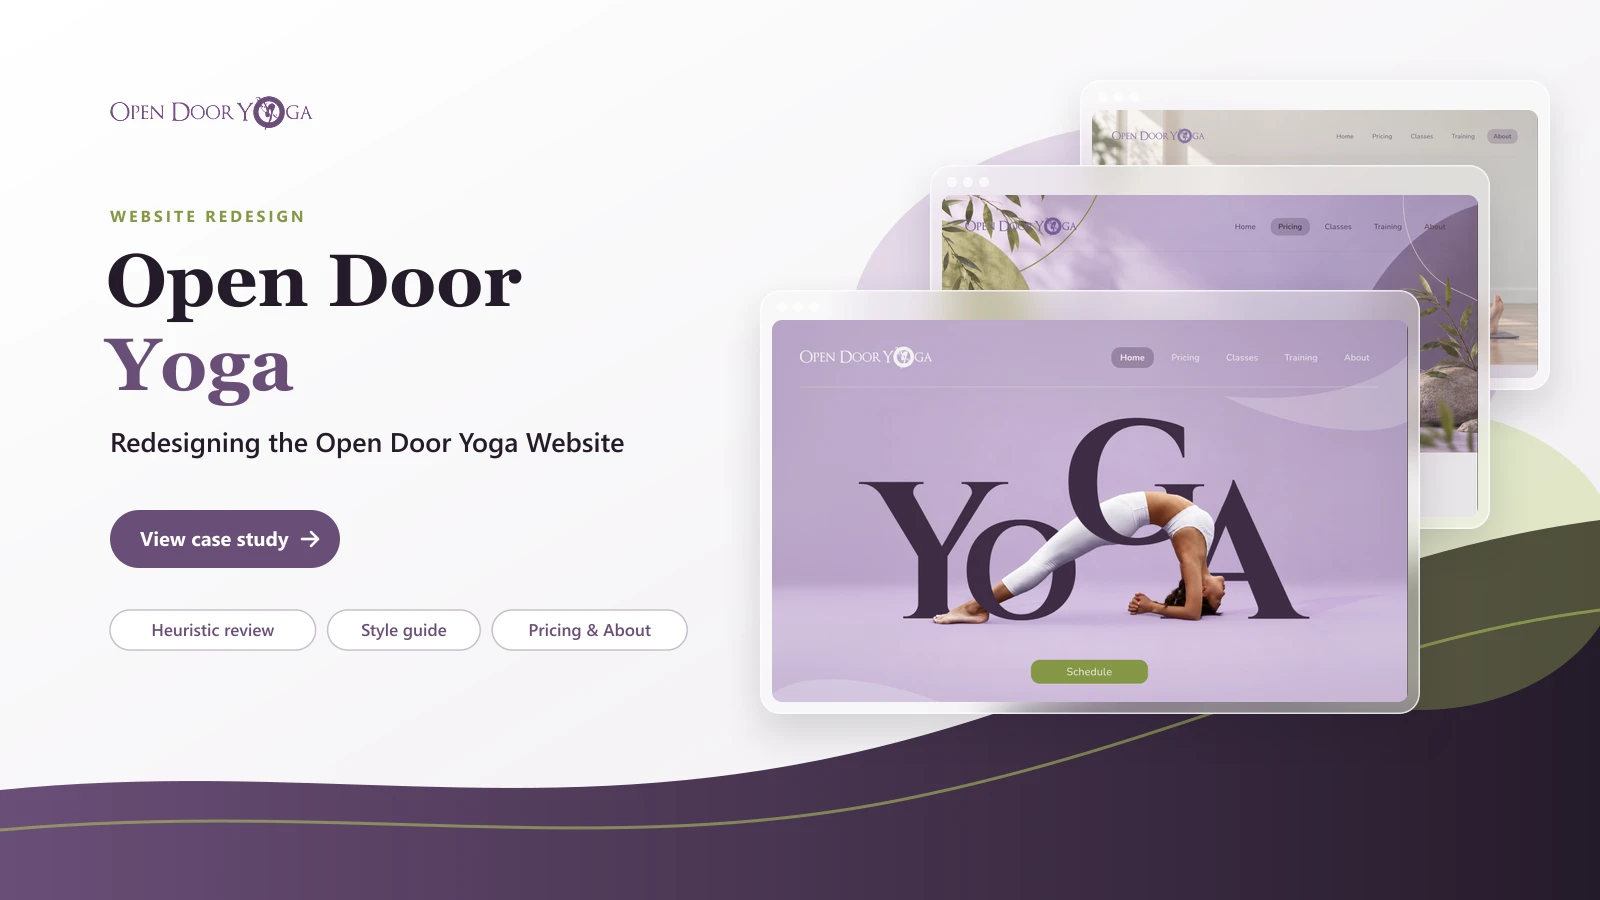
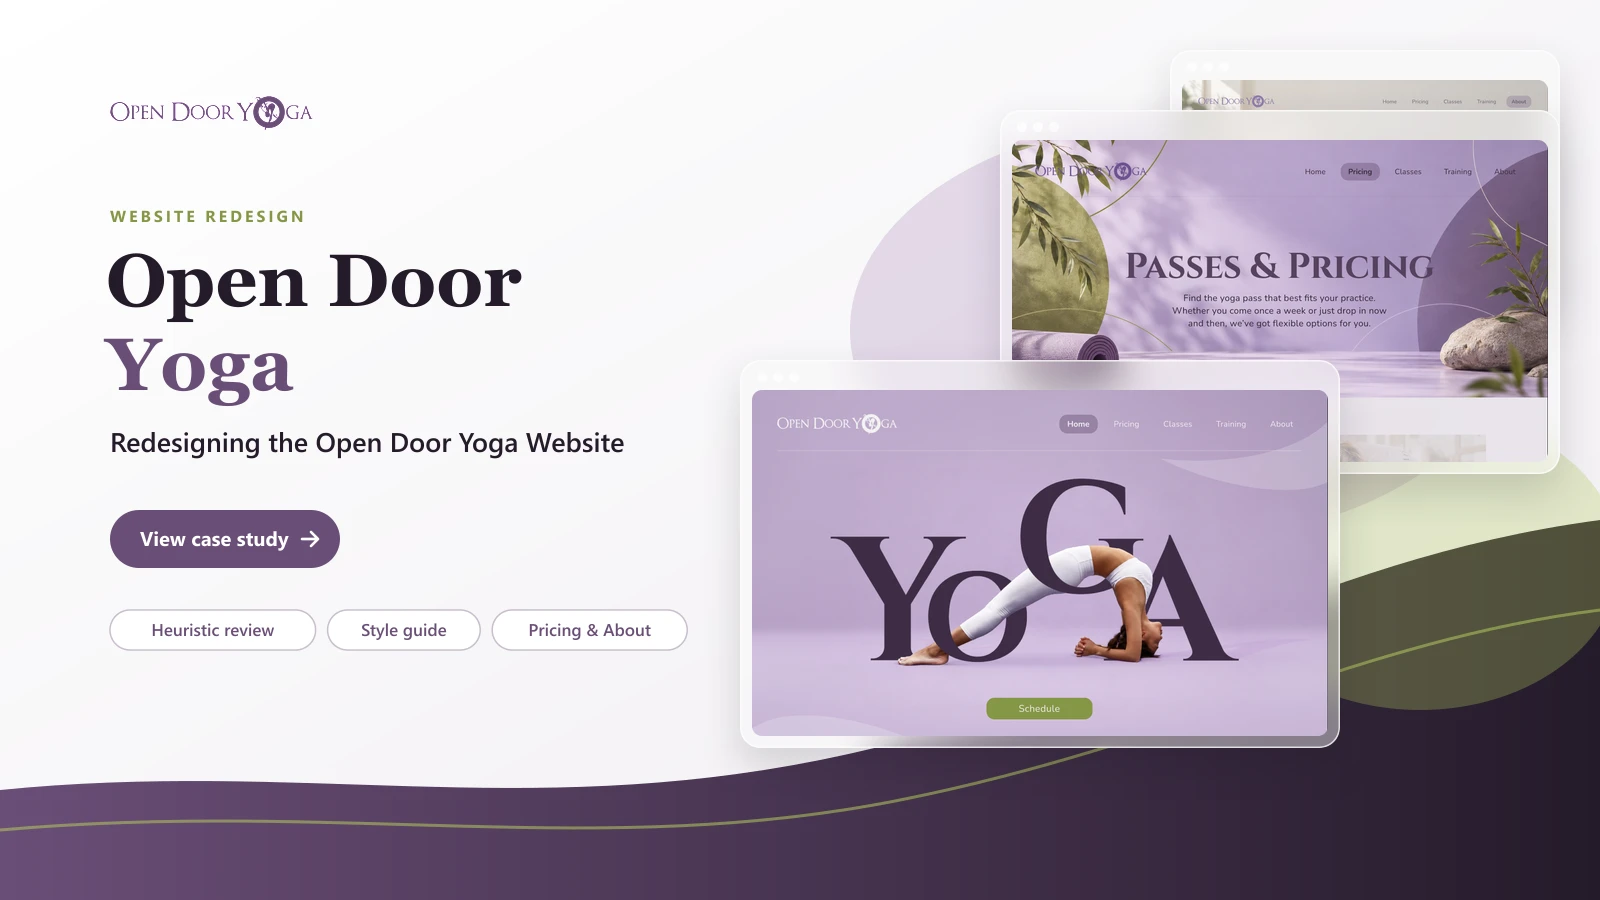
Open Door Yoga: dark cover on the site, Pricing page in view

Changed region(s): [[0.4688, 0.0622, 0.9688, 0.84]]

diff --git a/src/data/projects.ts b/src/data/projects.ts
@@ -1053,9 +1053,9 @@ export const projects: Project[] = glueAll<Project[]>([
     timeline: '2026.08 to 2026.09',
     team: '3 designers',
     tools: ['Figma', 'html.to.design'],
-    // cover: built by scripts/build-yoga-cover.mjs from the redesigned pages
-    thumbnail: img('yoga-cover', 'Open Door Yoga cover: the title, "Redesigning the Open Door Yoga Website" and a View case study button beside the redesigned About, Pricing and Home pages stacked as frosted glass windows, the Home page in front, over a violet wave.', undefined, 1600, 900),
-    hero: img('yoga-cover', 'Open Door Yoga cover: the title, "Redesigning the Open Door Yoga Website" and a View case study button beside the redesigned About, Pricing and Home pages stacked as frosted glass windows, the Home page in front, over a violet wave.', undefined, 1600, 900),
+    // cover: the dark version built by scripts/build-yoga-cover.mjs ('dark') from the redesigned pages
+    thumbnail: img('yoga-cover-dark', 'Open Door Yoga cover on deep violet: the title, "Redesigning the Open Door Yoga Website" and a View case study button beside the redesigned About, Pricing and Home pages stacked as frosted glass windows, the Passes & Pricing page behind the Home page, over a violet wave.', undefined, 1600, 900),
+    hero: img('yoga-cover-dark', 'Open Door Yoga cover on deep violet: the title, "Redesigning the Open Door Yoga Website" and a View case study button beside the redesigned About, Pricing and Home pages stacked as frosted glass windows, the Passes & Pricing page behind the Home page, over a violet wave.', undefined, 1600, 900),
     theme: { accent: '#6A4E77', ink: '#2E2E2E', surface: '#F0EDF1' },
     tldr: [
       { label: 'Problem', text: 'A heuristic review of the studio’s site found prices, schedules and key details hard to find and scan.' },
